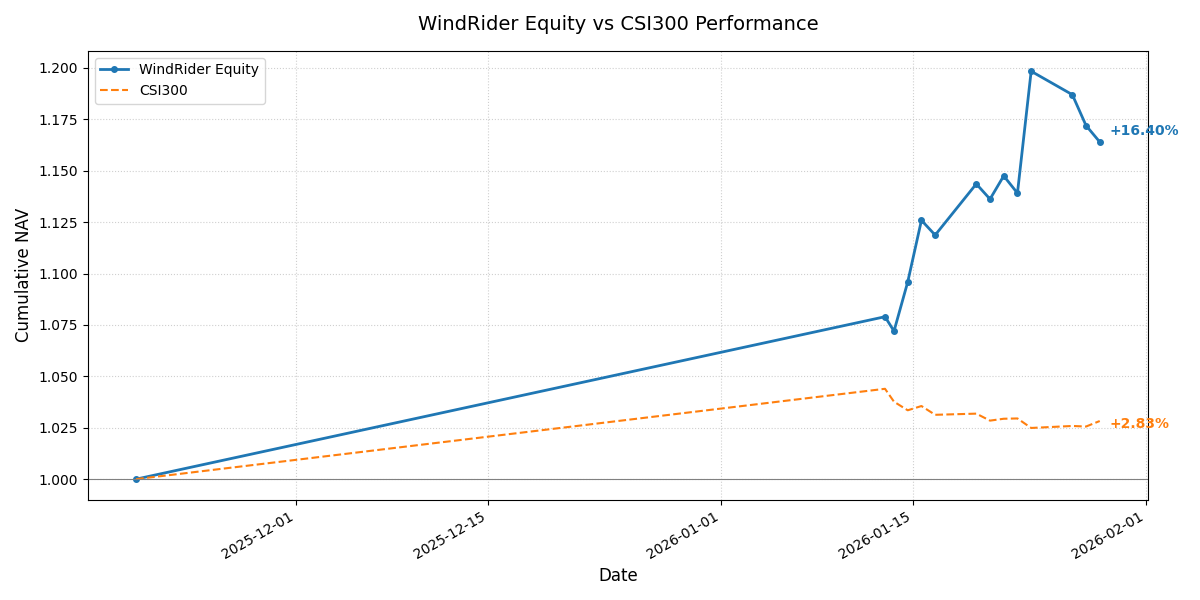
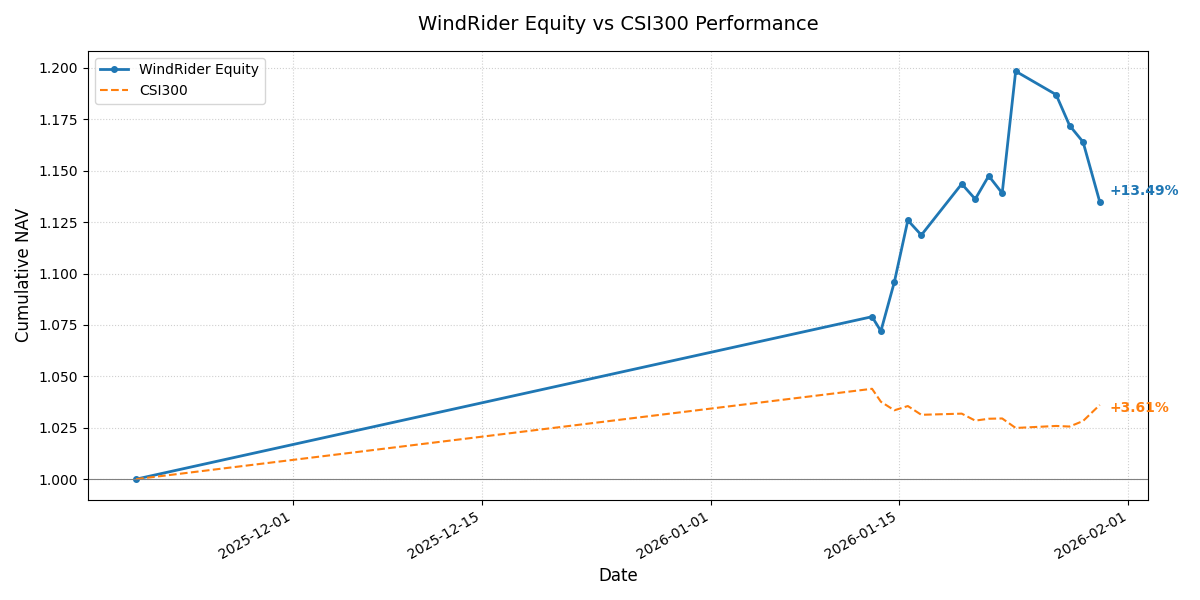
Updated Hugo site content

diff --git a/public/investment/position/index.html b/public/investment/position/index.html
@@ -66,8 +66,8 @@
   <meta property="og:locale" content="zh-cn">
   <meta property="og:type" content="article">
     <meta property="article:section" content="investment">
-    <meta property="article:published_time" content="2026-01-29T15:11:24+08:00">
-    <meta property="article:modified_time" content="2026-01-29T15:11:24+08:00">
+    <meta property="article:published_time" content="2026-01-29T20:53:21+08:00">
+    <meta property="article:modified_time" content="2026-01-29T20:53:21+08:00">
 <meta name="twitter:card" content="summary">
 <meta name="twitter:title" content="持仓 Position">
 <meta name="twitter:description" content="WindRider Stock Portfolio">
@@ -103,11 +103,11 @@
   "keywords": [
     
   ],
-  "articleBody": " 风舵股票组合 /// 每日持仓 WindRider Equity Portfolio 净值简报 (截至: 2026-01-28)\n指数代码： WDR.EQ 成立日期： 2025-11-19 最新净值： 1.1640 今日涨跌： -0.68% ===========================\n核心表现 累计收益： +16.40% 年化收益： +120.75% 最大回撤： -2.87% 基准点位： 4717.99 (CSI300) 策略状态： 已运行 71 天 持仓明细 股票名称 成本价 现价 盈亏 占比 先导智能 300450 49.41 59.50 +20.42% 50.47% 新 和 成 002001 24.77 28.05 +13.23% 46.59% 收益率对比曲线 声明：本页面数据为实盘记录，持仓数据每日收盘后更新。\n数据仅供技术交流，不构成投资建议。\n",
+  "articleBody": " 风舵股票组合 /// 每日持仓 WindRider Equity Portfolio 净值简报 (截至: 2026-01-29)\n指数代码： WDR.EQ 成立日期： 2025-11-19 最新净值： 1.1349 今日涨跌： -2.50% ===========================\n核心表现 累计收益： +13.49% 年化收益： +91.66% 最大回撤： -5.30% 基准点位： 4753.87 (CSI300) 策略状态： 已运行 72 天 持仓明细 股票名称 成本价 现价 盈亏 占比 先导智能 300450 49.41 56.34 +14.02% 49.03% 新 和 成 002001 24.77 28.14 +13.59% 48.98% 收益率对比曲线 声明：本页面数据为实盘记录，持仓数据每日收盘后更新。\n数据仅供技术交流，不构成投资建议。\n",
   "wordCount" : "55",
   "inLanguage": "zh-cn",
-  "datePublished": "2026-01-29T15:11:24+08:00",
-  "dateModified": "2026-01-29T15:11:24+08:00",
+  "datePublished": "2026-01-29T20:53:21+08:00",
+  "dateModified": "2026-01-29T20:53:21+08:00",
   "mainEntityOfPage": {
     "@type": "WebPage",
     "@id": "https://hankou.com/investment/position/"
@@ -191,7 +191,7 @@
     <div class="post-description">
       WindRider Stock Portfolio
     </div>
-    <div class="post-meta"><span title='2026-01-29 15:11:24 +0800 CST'>January 29, 2026</span>
+    <div class="post-meta"><span title='2026-01-29 20:53:21 +0800 CST'>January 29, 2026</span>
 
 </div>
   </header> 
@@ -200,7 +200,7 @@
 </style>
 <h3 id="风舵股票组合--每日持仓">风舵股票组合   <span style="color: #E63946; font-weight: bold;">/</span><span style="color: #F1A73E; font-weight: bold;">/</span><span style="color: #000091; font-weight: bold;">/</span>   每日持仓<a hidden class="anchor" aria-hidden="true" href="#风舵股票组合--每日持仓">#</a></h3>
 <p>WindRider Equity Portfolio <br>
-净值简报 <small>(截至: 2026-01-28)</small></p>
+净值简报 <small>(截至: 2026-01-29)</small></p>
 <table>
   <thead>
       <tr>
@@ -219,11 +219,11 @@
       </tr>
       <tr>
           <td style="text-align: left"><strong>最新净值：</strong></td>
-          <td style="text-align: left">1.1640</td>
+          <td style="text-align: left">1.1349</td>
       </tr>
       <tr>
           <td style="text-align: left"><strong>今日涨跌：</strong></td>
-          <td style="text-align: left">-0.68%</td>
+          <td style="text-align: left">-2.50%</td>
       </tr>
   </tbody>
 </table>
@@ -238,23 +238,23 @@
   <tbody>
       <tr>
           <td style="text-align: left"><strong>累计收益：</strong></td>
-          <td style="text-align: left">+16.40%</td>
+          <td style="text-align: left">+13.49%</td>
       </tr>
       <tr>
           <td style="text-align: left"><strong>年化收益：</strong></td>
-          <td style="text-align: left">+120.75%</td>
+          <td style="text-align: left">+91.66%</td>
       </tr>
       <tr>
           <td style="text-align: left"><strong>最大回撤：</strong></td>
-          <td style="text-align: left">-2.87%</td>
+          <td style="text-align: left">-5.30%</td>
       </tr>
       <tr>
           <td style="text-align: left"><strong>基准点位：</strong></td>
-          <td style="text-align: left">4717.99 (CSI300)</td>
+          <td style="text-align: left">4753.87 (CSI300)</td>
       </tr>
       <tr>
           <td style="text-align: left"><strong>策略状态：</strong></td>
-          <td style="text-align: left">已运行 71 天</td>
+          <td style="text-align: left">已运行 72 天</td>
       </tr>
   </tbody>
 </table>
@@ -274,17 +274,17 @@
       <tr>
           <td style="text-align: left">先导智能 <small>300450</small></td>
           <td style="text-align: left">49.41</td>
-          <td style="text-align: left">59.50</td>
-          <td style="text-align: left"><span style="color:#E63946">+20.42%</span></td>
-          <td style="text-align: left">50.47%</td>
+          <td style="text-align: left">56.34</td>
+          <td style="text-align: left"><span style="color:#E63946">+14.02%</span></td>
+          <td style="text-align: left">49.03%</td>
           <td></td>
       </tr>
       <tr>
           <td style="text-align: left">新 和 成 <small>002001</small></td>
           <td style="text-align: left">24.77</td>
-          <td style="text-align: left">28.05</td>
-          <td style="text-align: left"><span style="color:#E63946">+13.23%</span></td>
-          <td style="text-align: left">46.59%</td>
+          <td style="text-align: left">28.14</td>
+          <td style="text-align: left"><span style="color:#E63946">+13.59%</span></td>
+          <td style="text-align: left">48.98%</td>
           <td></td>
       </tr>
   </tbody>

diff --git a/public/investment/index.html b/public/investment/index.html
@@ -146,6 +146,18 @@
 
 <article class="post-entry"> 
   <header class="entry-header">
+    <h2 class="entry-hint-parent">持仓 Position
+    </h2>
+  </header>
+  <div class="entry-content">
+    <p>主动管理型股票组合。对标沪深300指数，采用基本面选股策略。</p>
+  </div>
+  <footer class="entry-footer"><span title='2026-01-29 20:53:21 +0800 CST'>January 29, 2026</span></footer>
+  <a class="entry-link" aria-label="post link to 持仓 Position" href="https://hankou.com/investment/position/"></a>
+</article>
+
+<article class="post-entry"> 
+  <header class="entry-header">
     <h2 class="entry-hint-parent">风舵1号 (WindRider I)  /// 指数
     </h2>
   </header>
@@ -154,18 +166,6 @@
   </div>
   <footer class="entry-footer"><span title='2026-01-29 20:31:08 +0800 CST'>January 29, 2026</span></footer>
   <a class="entry-link" aria-label="post link to 风舵1号 (WindRider I)  /// 指数" href="https://hankou.com/investment/windrider-1/"></a>
-</article>
-
-<article class="post-entry"> 
-  <header class="entry-header">
-    <h2 class="entry-hint-parent">持仓 Position
-    </h2>
-  </header>
-  <div class="entry-content">
-    <p>主动管理型股票组合。对标沪深300指数，采用基本面选股策略。</p>
-  </div>
-  <footer class="entry-footer"><span title='2026-01-29 15:11:24 +0800 CST'>January 29, 2026</span></footer>
-  <a class="entry-link" aria-label="post link to 持仓 Position" href="https://hankou.com/investment/position/"></a>
 </article>
 
 <article class="post-entry"> 

diff --git a/content/investment/position.md b/content/investment/position.md
@@ -1,8 +1,8 @@
 +++
 title = "持仓 Position"
 summary = "主动管理型股票组合。对标沪深300指数，采用基本面选股策略。"
-date = 2026-01-29T20:53:21+08:00
-lastmod = 2026-01-29T20:53:21+08:00
+date = 2026-01-29T20:54:39+08:00
+lastmod = 2026-01-29T20:54:39+08:00
 draft = false
 description = "WindRider Stock Portfolio"
 +++
